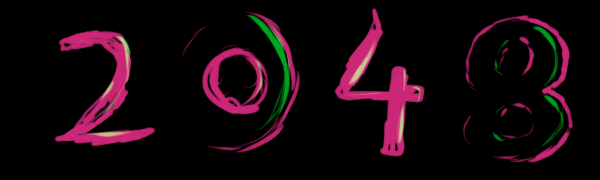
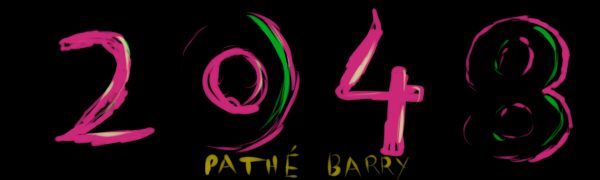
Timer fonctionnel
Ajout du temps,
Modif de bannière

Changed region(s): [[0.33, 0.8056, 0.51, 0.9722], [0.54, 0.8611, 0.69, 1.0], [0.48, 0.9722, 0.51, 1.0]]

diff --git a/src/jeu/ecran.vue b/src/jeu/ecran.vue
@@ -1,6 +1,6 @@
 <template>
     <div class="Plateau" v-bind:style="{'text-align':'  center'}" >
-        <!-- <canvas width="300" height="300" style="border:1px solid #BBB;" v-insert-message="exampleContent"></canvas> -->
+        <div class='temps'>Temps écoulé : {{timer}}.{{textmill}}</div>
         <div class="gamearea">
             <div v-for="(horizon,index) in grille.squares" v-bind:key="index" :index="index">
                 <span display: inline v-for="(vertic,index) in horizon" v-bind:key="index" :index="index">
@@ -29,7 +29,10 @@ export default {
     data () {
         return {
             grille:'',
-            cases:''
+            cases:'',
+            timer:0,
+            timermill:0,
+            textmill:''
         }
     },
     methods: {
@@ -55,30 +58,29 @@ export default {
             
             self.$forceUpdate()
             }
-            
-        )}
+        )},
+
+        temps: function(){
+            this.timer = this.timer+1;
+            console.log(this.timer);
+        },
+
+        tempsmill: function(){
+            this.timermill = this.timermill+1;
+            this.textmill = this.timermill;
+            if(this.timermill>0 && this.timermill<10){
+                this.textmill = '0'+this.timermill;
+            }
+            if(this.timermill >= 100){
+                this.textmill=0
+                this.timermill=0;
+            }
+        }
     },
     mounted() {
         this.touche();
-        
-        // window.addEventListener("keydown", function(e) {
-        //     switch(e.keyCode){
-        //         case 38:
-        //             Board.move ('up')
-        //             break;
-        //         case 37:
-        //             Board.move ('left')
-        //             break;
-        //     //     case 39:
-        //     //         Board.move ('right')
-        //     //         break;
-        //     //     case 40:
-        //     //         Board.move ('down')
-        //     //         break;
-        //     }
-        //     console.log(Board.squares)
-        // });
-        
+        setInterval(this.temps,1000);
+        setInterval(this.tempsmill,10);
   }
 
 }

diff --git a/src/scripts/design.css b/src/scripts/design.css
@@ -81,3 +81,14 @@ body{
     border-color: black; 
     border-radius: 10px;
 }
+
+.temps{
+    padding-left:3%;
+    padding-top:200px;
+    padding-right:0;
+    float: left;
+    font-size:40px;
+    color:rgb(40, 0, 185);
+    z-index: 100;
+    position: absolute;
+}
